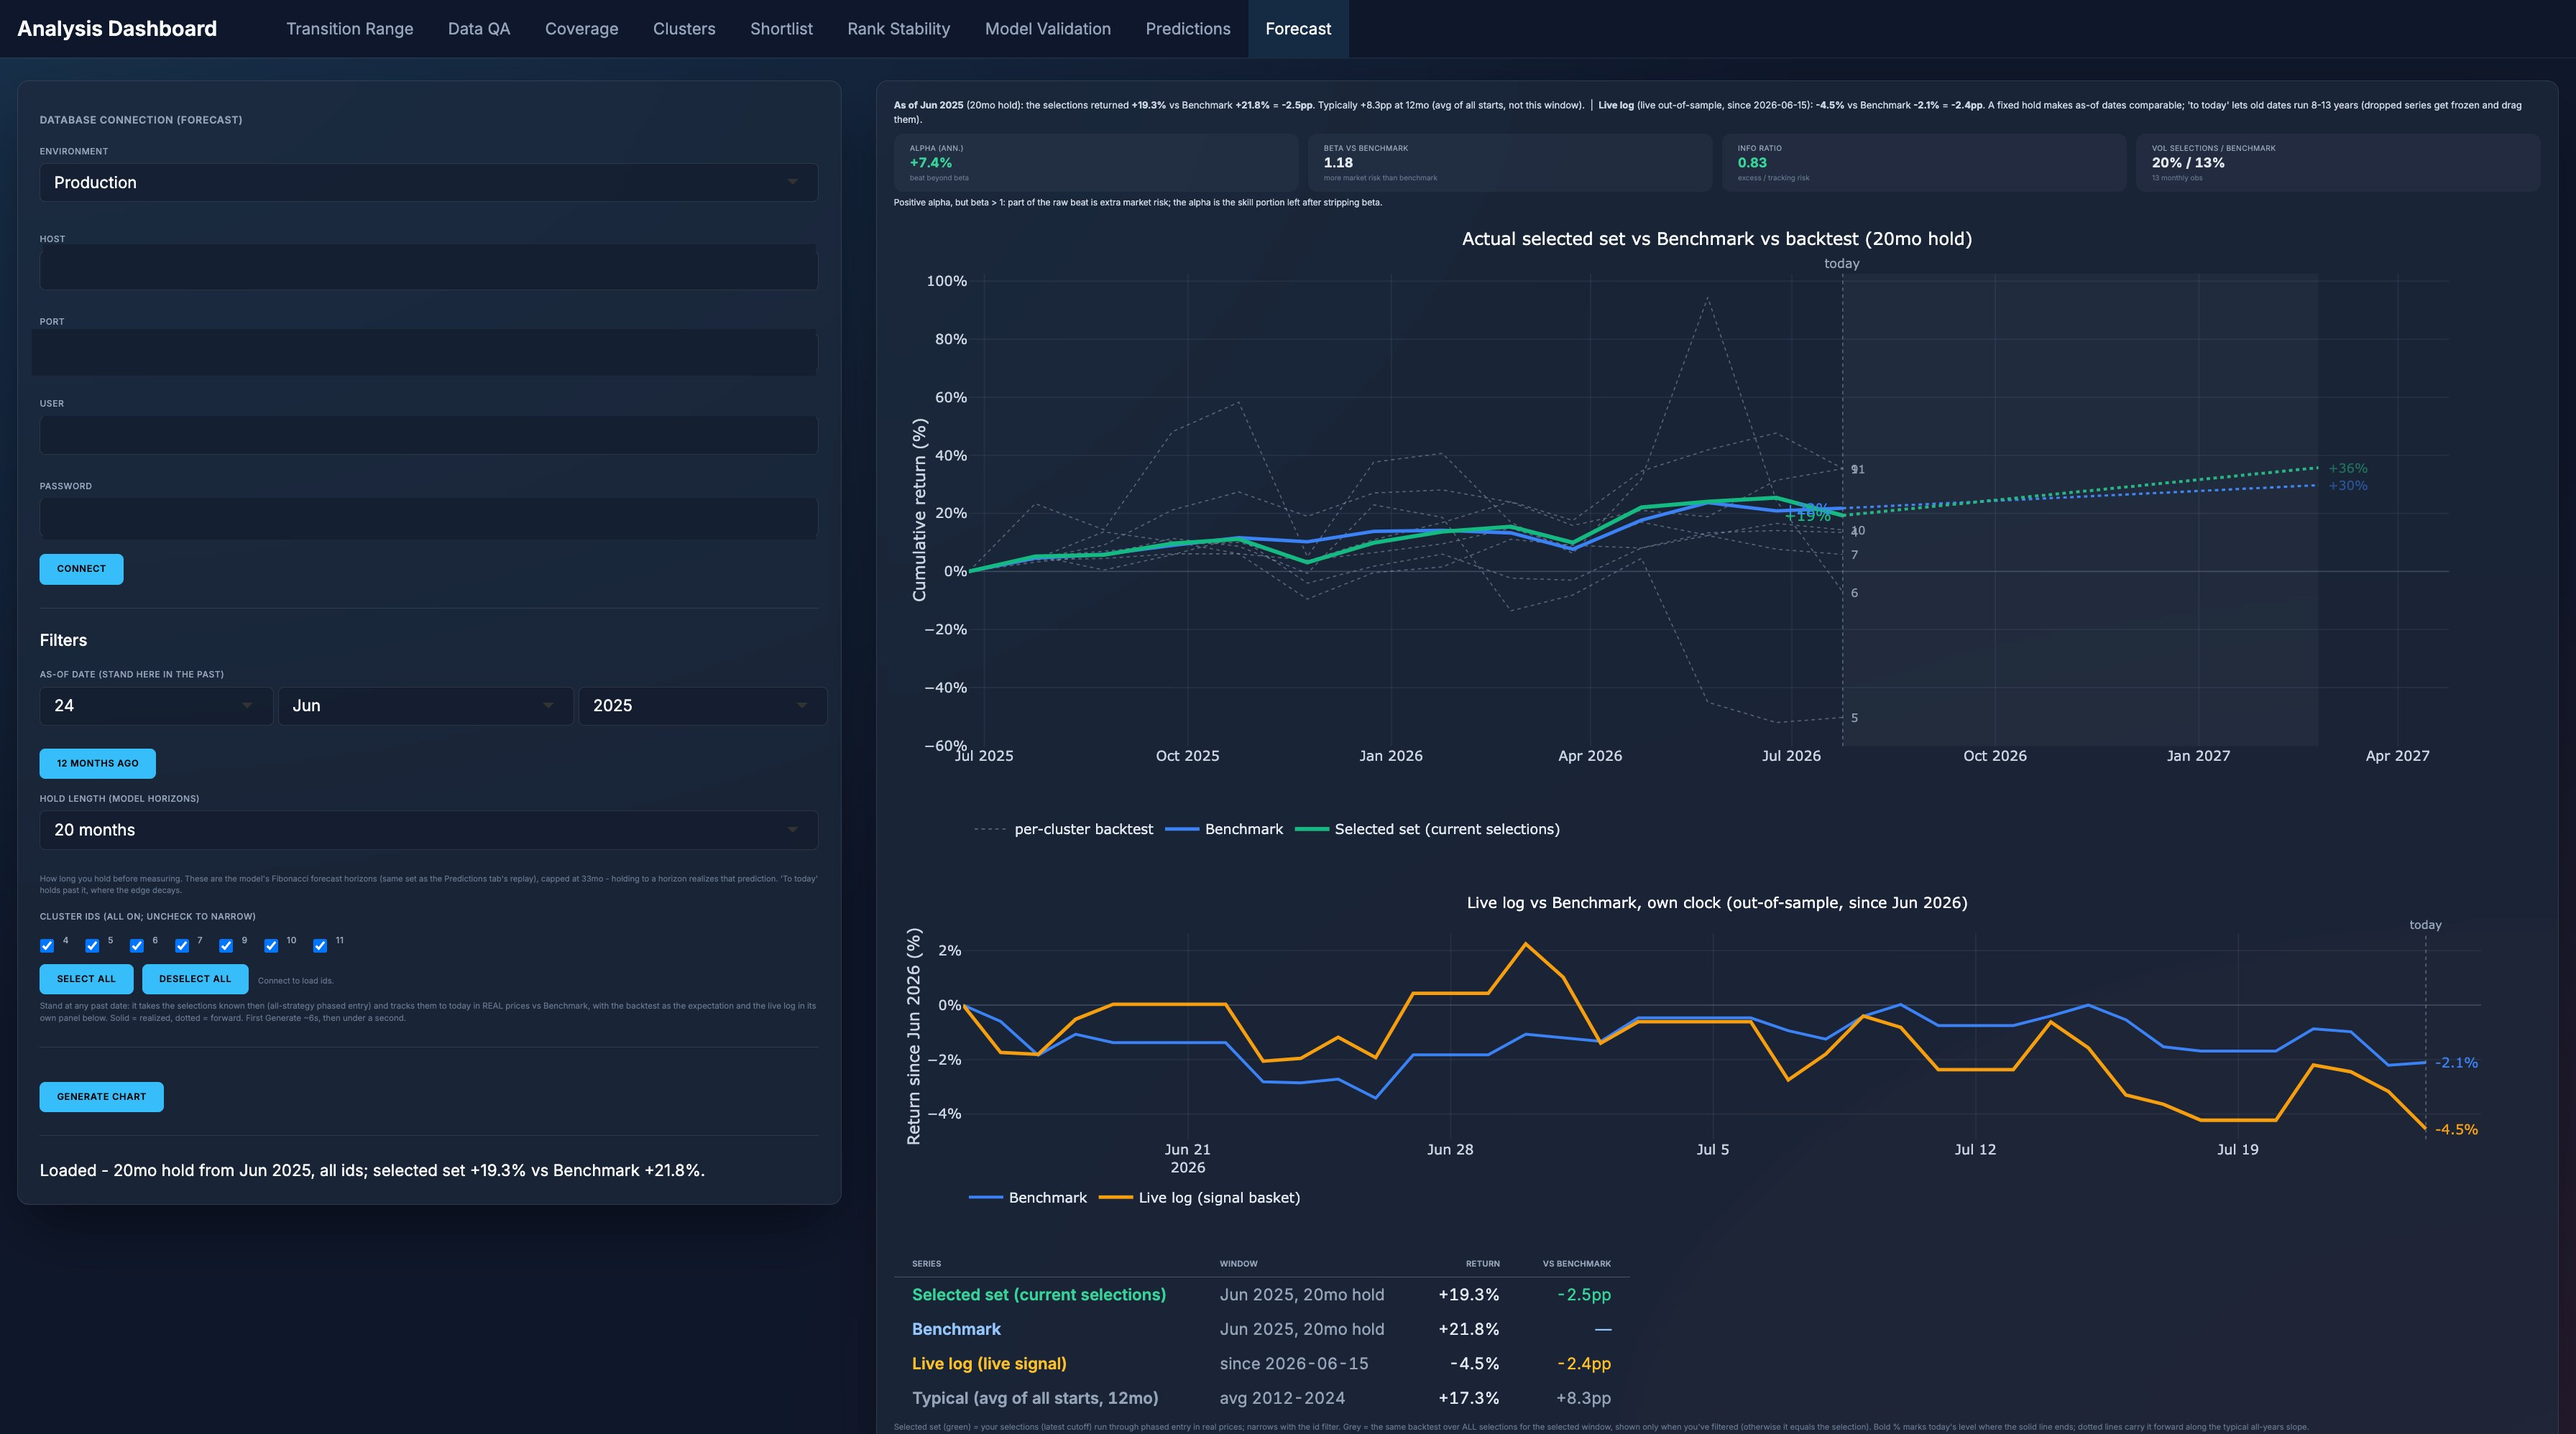
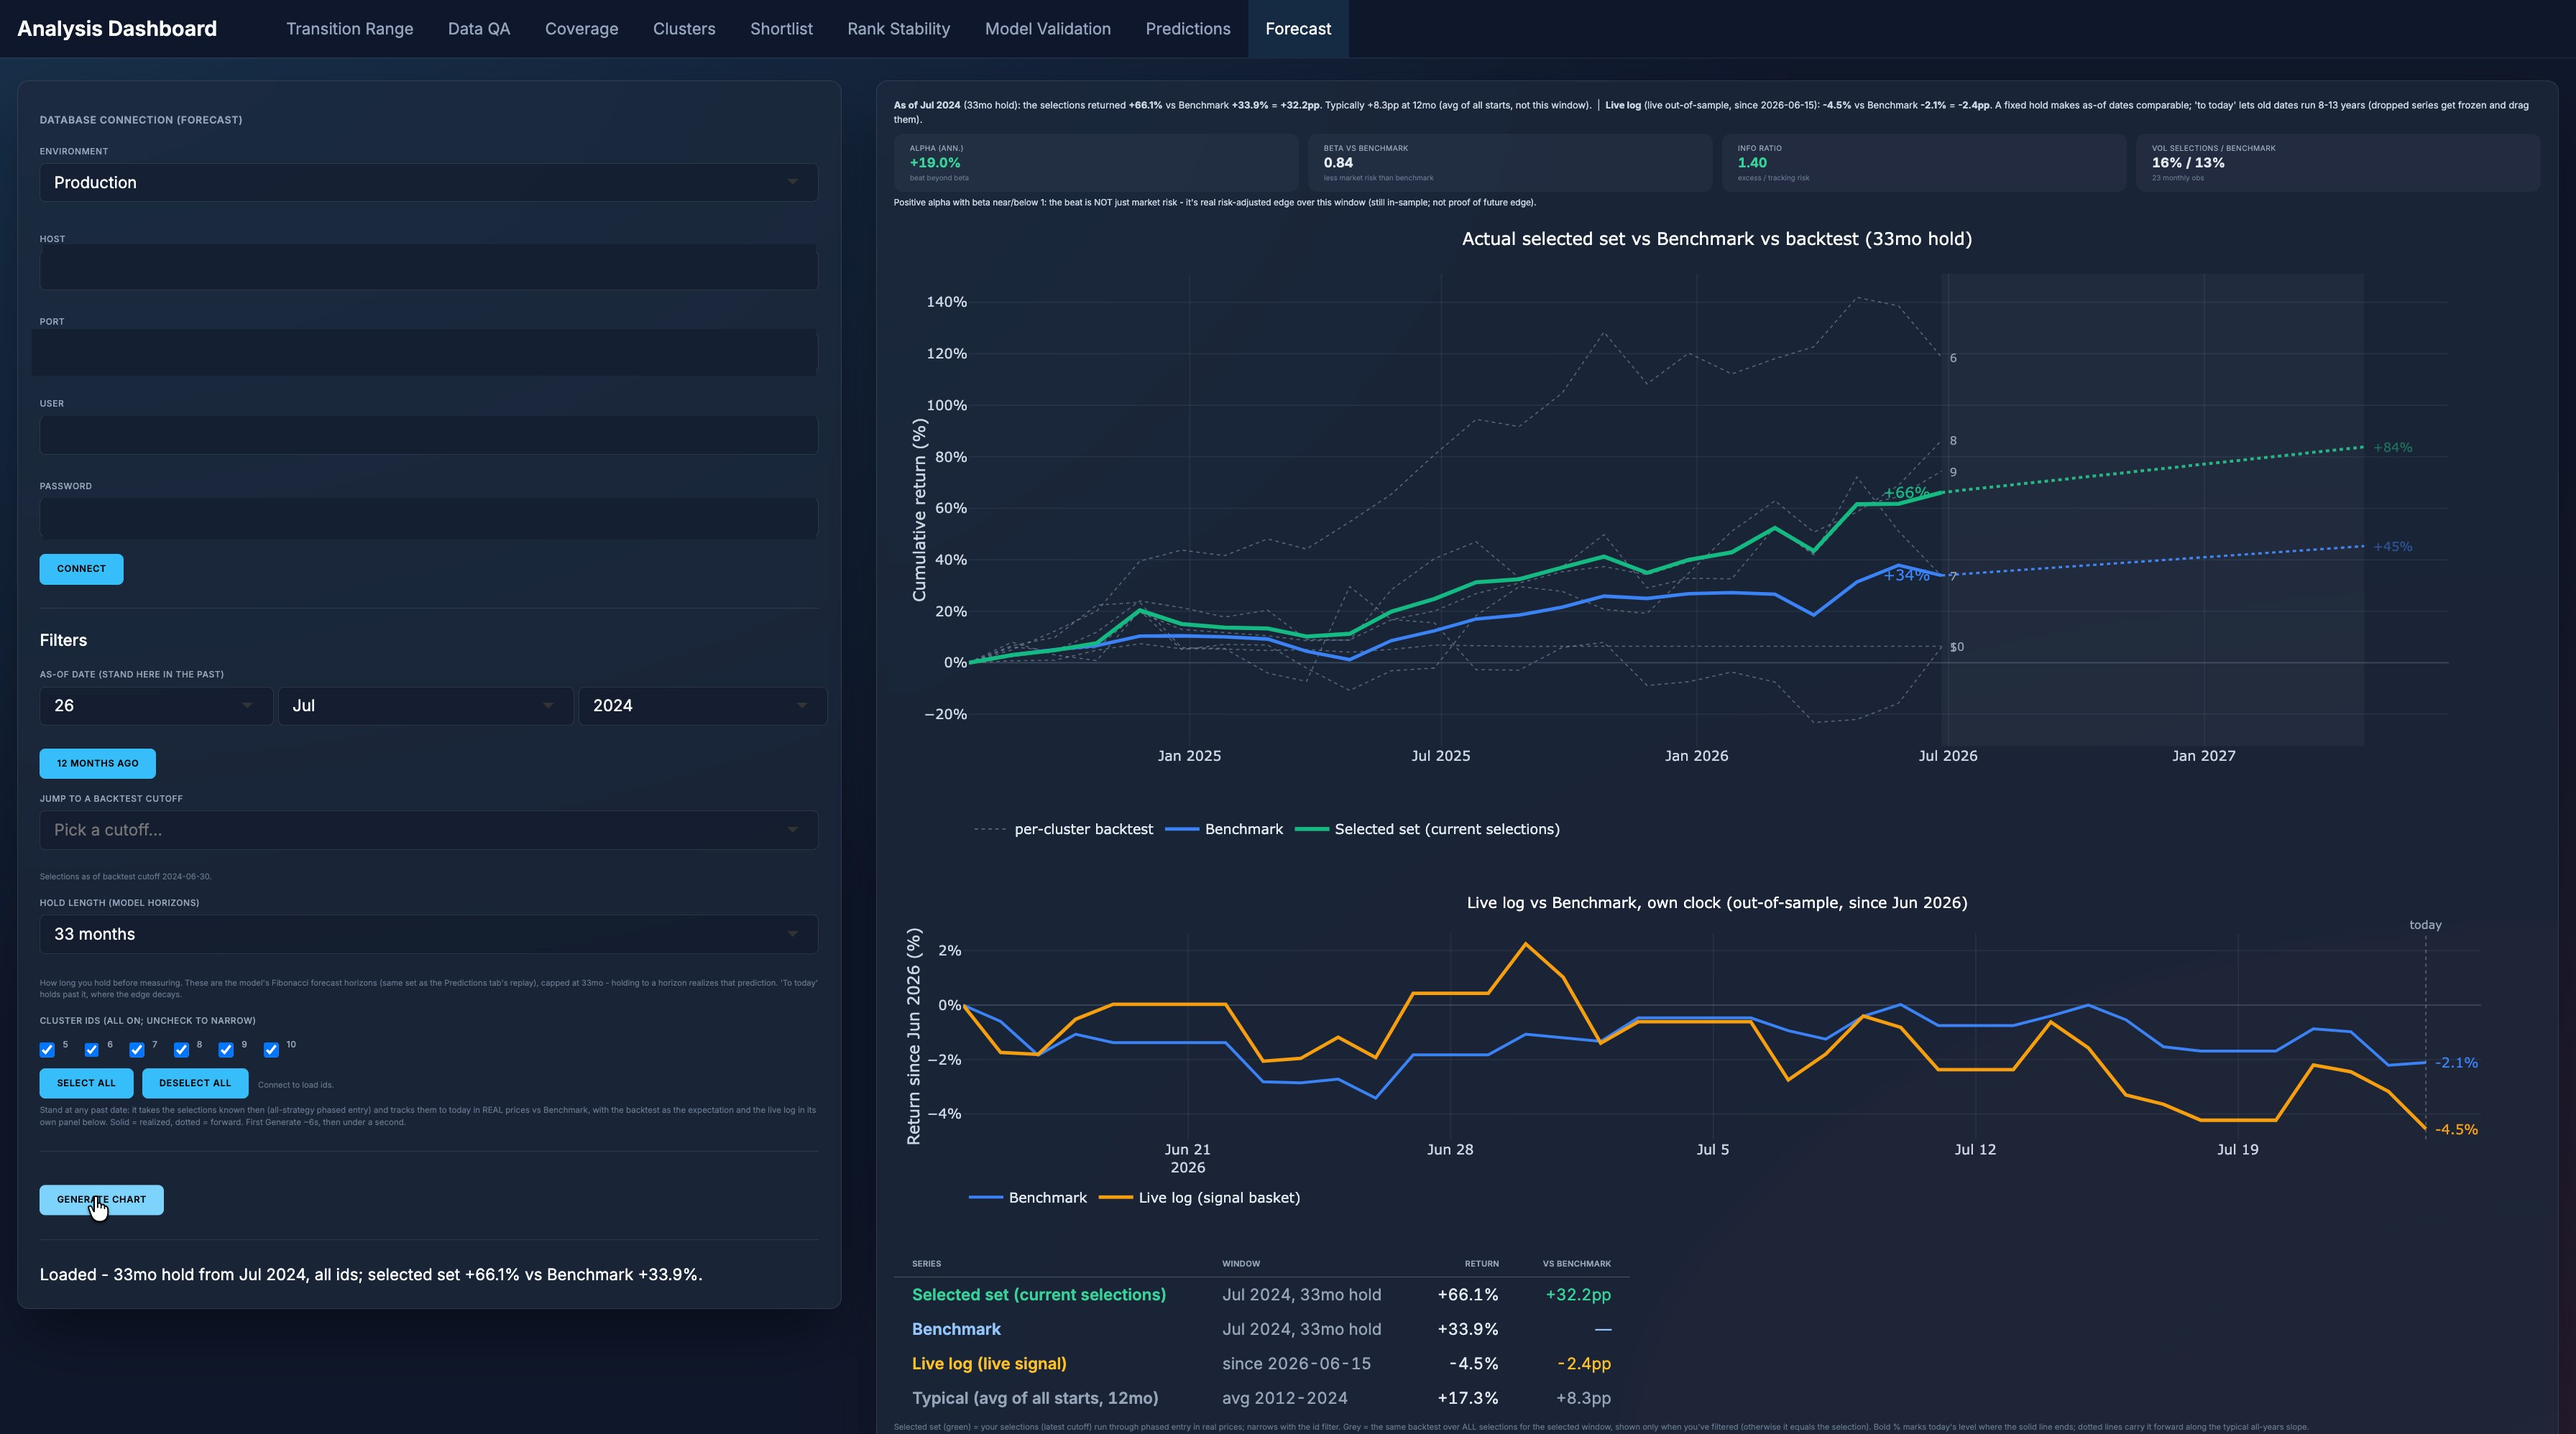
docs(dashboard): update Forecast screenshot (33mo hold from Jul 2024)
Connection fields (host/port/user/password) redacted; bump image cache-buster.

diff --git a/README.md b/README.md
@@ -87,7 +87,7 @@ Supports:
 
 ### Forecast
 
-![Forecast: selections vs benchmark vs walk-forward backtest](tools/dashboard_forecast.jpg?v=1)
+![Forecast: selections vs benchmark vs walk-forward backtest](tools/dashboard_forecast.jpg?v=2)
 
 Stands at any past date and tracks the model's selections forward in real prices against the benchmark, with the walk-forward backtest as the expected path.
 
